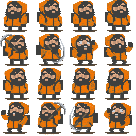
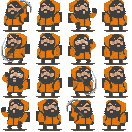
(Dirty) Refactoring basestage module for multiplayer purposes

diff --git a/src/common/baseStage.js b/src/common/baseStage.js
@@ -79,9 +79,15 @@ export default class BaseStage extends Phaser.Group {
     /**
      * @function protected function that animate guy to the start point
      */
-  __animatePlayerIn(offsetX) {
-      return this.guy.moveToPosition(offsetX);
-    }
+  __animatePlayerIn(config) {
+    return new Promise((resolve) => {
+      Promise.all(this.players.map((guy, index) => {
+          return guy.moveToPosition(config[index].offsetX);
+          return this;
+        })).then(() => resolve());
+    });
+  }
+
     /**
      * @function protected function that animate zombies up from the ground
      */
@@ -186,7 +192,7 @@ export default class BaseStage extends Phaser.Group {
      * @function private method (callback) that reduce the totalLifes by one when is called
      */
   _onCountDownCallback() {
-    if (this.guy.totalLifes !== 0) {
+    if (this.players[0].totalLifes !== 0 || this.players[1].totalLifes !== 0) {
       this._reduceLifeByOne();
     } else if (this.isActive === true) {
       this.isActive == false;
@@ -259,7 +265,6 @@ export default class BaseStage extends Phaser.Group {
       if(this.connectionIds === undefined){
         return this;
       }
-      debugger;
       this.connectionIds.map((connectionId, index) => {
         let guy = this.add(new Guy(this.game, players[index], connectionId));
         guy.scale.setTo(3, 3);
@@ -294,7 +299,7 @@ export default class BaseStage extends Phaser.Group {
      * @function private method (callback) being called when guy collide a zombie
      */
   _onCollisionCallback(zombie) {
-      if (this.guy.isAttacking) this._processGuyAttack(zombie);
+      if (this.players[0].isAttacking || this.players[1].isAttacking) this._processGuyAttack(zombie);
       else this._processZombieAttack(zombie);
     }
     /**

diff --git a/src/modules/startScene/startScene.js b/src/modules/startScene/startScene.js
@@ -29,7 +29,6 @@ export default class StartScene extends Phaser.Group {
   }
   onPlayerConnected(connectionId) {
     if (connectionId !== undefined) {
-      console.log("Player connected");
       this.connectionIds.push(connectionId);
     }
 
@@ -72,7 +71,8 @@ export default class StartScene extends Phaser.Group {
       .then(() => this._bankgogStage())
       .then(() => this._thailandStage())
       .then(() => this._roadStage())
-      .catch(() => {
+      .catch((reason) => {
+        console.log(reason);
         this._gameOver();
       });
   }
@@ -86,19 +86,19 @@ export default class StartScene extends Phaser.Group {
   _bankgogStage() {
     this.backGround.visible = false;
     return new Promise((resolve, reject) => {
-      this.actualStage = new BangkokStage(this.game, resolve, reject, 'bangkok', this.connectionIds);
+      this.actualStage = new BangkokStage(this.game, resolve, reject, 'bangkok', this.hubManager, this.connectionIds);
     });
   }
   _thailandStage() {
     return new Promise((resolve, reject) => {
       this.actualStage = void 0;
-      this.actualStage = new ThailandStage(this.game, resolve, reject, 'thailand');
+      this.actualStage = new ThailandStage(this.game, resolve, reject, 'thailand', this.hubManager, this.connectionIds);
     });
   }
   _roadStage() {
     return new Promise((resolve, reject) => {
       this.actualStage = void 0;
-      this.actualStage = new RoadStage(this.game, resolve, reject, 'road');
+      this.actualStage = new RoadStage(this.game, resolve, reject, 'road', this.hubManager, this.connectionIds);
     });
   }
   __animateFadeIn() {

diff --git a/src/modules/stages/bangkok/bangkokStage.js b/src/modules/stages/bangkok/bangkokStage.js
@@ -33,7 +33,7 @@ export default class BangkokStage extends BaseStage {
   }
   __initializePlayers() {
     let players = this.config.players;
-    super.__initializeGuy(players);
+    super.__initializePlayers(players);
     return this;
   }
   __initializeHearts() {
@@ -62,7 +62,9 @@ export default class BangkokStage extends BaseStage {
     return this;
   }
   __hookButtonEvents() {
-    this.guy.hookButtonEvents();
+    this.players.map((guy) => {
+      guy.hookButtonEvents();
+    })
     return this;
   }
   __initializeBoomExplosion() {
@@ -97,7 +99,9 @@ export default class BangkokStage extends BaseStage {
   }
   __initializePhysics() {
     return new Promise((resolve) => {
-      this.guy.initializePhysics();
+      this.players.map((guy) => {
+        guy.initializePhysics()
+      });
       Promise.all(this.zombies.map((zombie) => zombie.initializePhysics()))
         .then(() => resolve());
     });
@@ -108,8 +112,7 @@ export default class BangkokStage extends BaseStage {
     return super.__animateZombiesIn(offsetY);
   }
   __animatePlayerIn() {
-    let offsetX = this.config.guy.offsetX;
-    return super.__animatePlayerIn(offsetX);
+    return super.__animatePlayerIn(this.config.players);
   }
   __animateText() {
     let text = this.config.textInfo.startText;

diff --git a/src/common/signalrHub.js b/src/common/signalrHub.js
@@ -16,11 +16,12 @@ export default class SignalRHub {
     }
   }
   _connect() {
-    let connection = $.hubConnection('http://localhost:53316');
+    let connection = $.hubConnection('http://localhost:50217');
     this.proxy = connection.createHubProxy('ZombiesHub');
     this.proxy.on("NotifyEndGame", () => this._isEndGame());
     return new Promise((resolve, reject) => {
       connection.start().done(() => {
+        console.log("zombiesGame connection established");
         const connectionId = connection.id;
         this.proxy.invoke("NotifyServerOn", connectionId);
         this.isConnected = true;
@@ -39,7 +40,7 @@ export default class SignalRHub {
   }
   _hookConnectionEvent() {
     this.proxy.on("OnPlayerConnected", (connectionId) => {
-      console.log("connection stablished");
+      console.log("Player connected: " + connectionId);
       this.parent.onPlayerConnected(connectionId)
     });
   }

diff --git a/src/common/guy.js b/src/common/guy.js
@@ -1,5 +1,6 @@
 import BasePlayer from './basePlayer.js';
 import Animations from '../config/animations.js';
+import Heart from './heart.js';
 
 export default class Guy extends BasePlayer {
   constructor(game, config, connectionId) {
@@ -25,7 +26,7 @@ export default class Guy extends BasePlayer {
     this.totalLifes++;
   }
   initializeHearts(config) {
-
+  //  this.heartArray = this.add();
   }
   hookButtonEvents() {
     this.__leftPress = this.game.input.keyboard.addKey(Phaser.Keyboard.LEFT);

diff --git a/src/config/atlases/atlases.js b/src/config/atlases/atlases.js
@@ -11,7 +11,7 @@ module.exports = () => {
       url: require('../../assets/shared/scavenger.png')
     },
     'scavenger2': {
-      data: require('../../assets/atlases/scavenger2.json'),
+      data: require('../../assets/atlases/scavenger.json'),
       format: Phaser.Loader.TEXTURE_ATLAS_JSON_HASH,
       url: require('../../assets/shared/scavenger2.png')
     },
